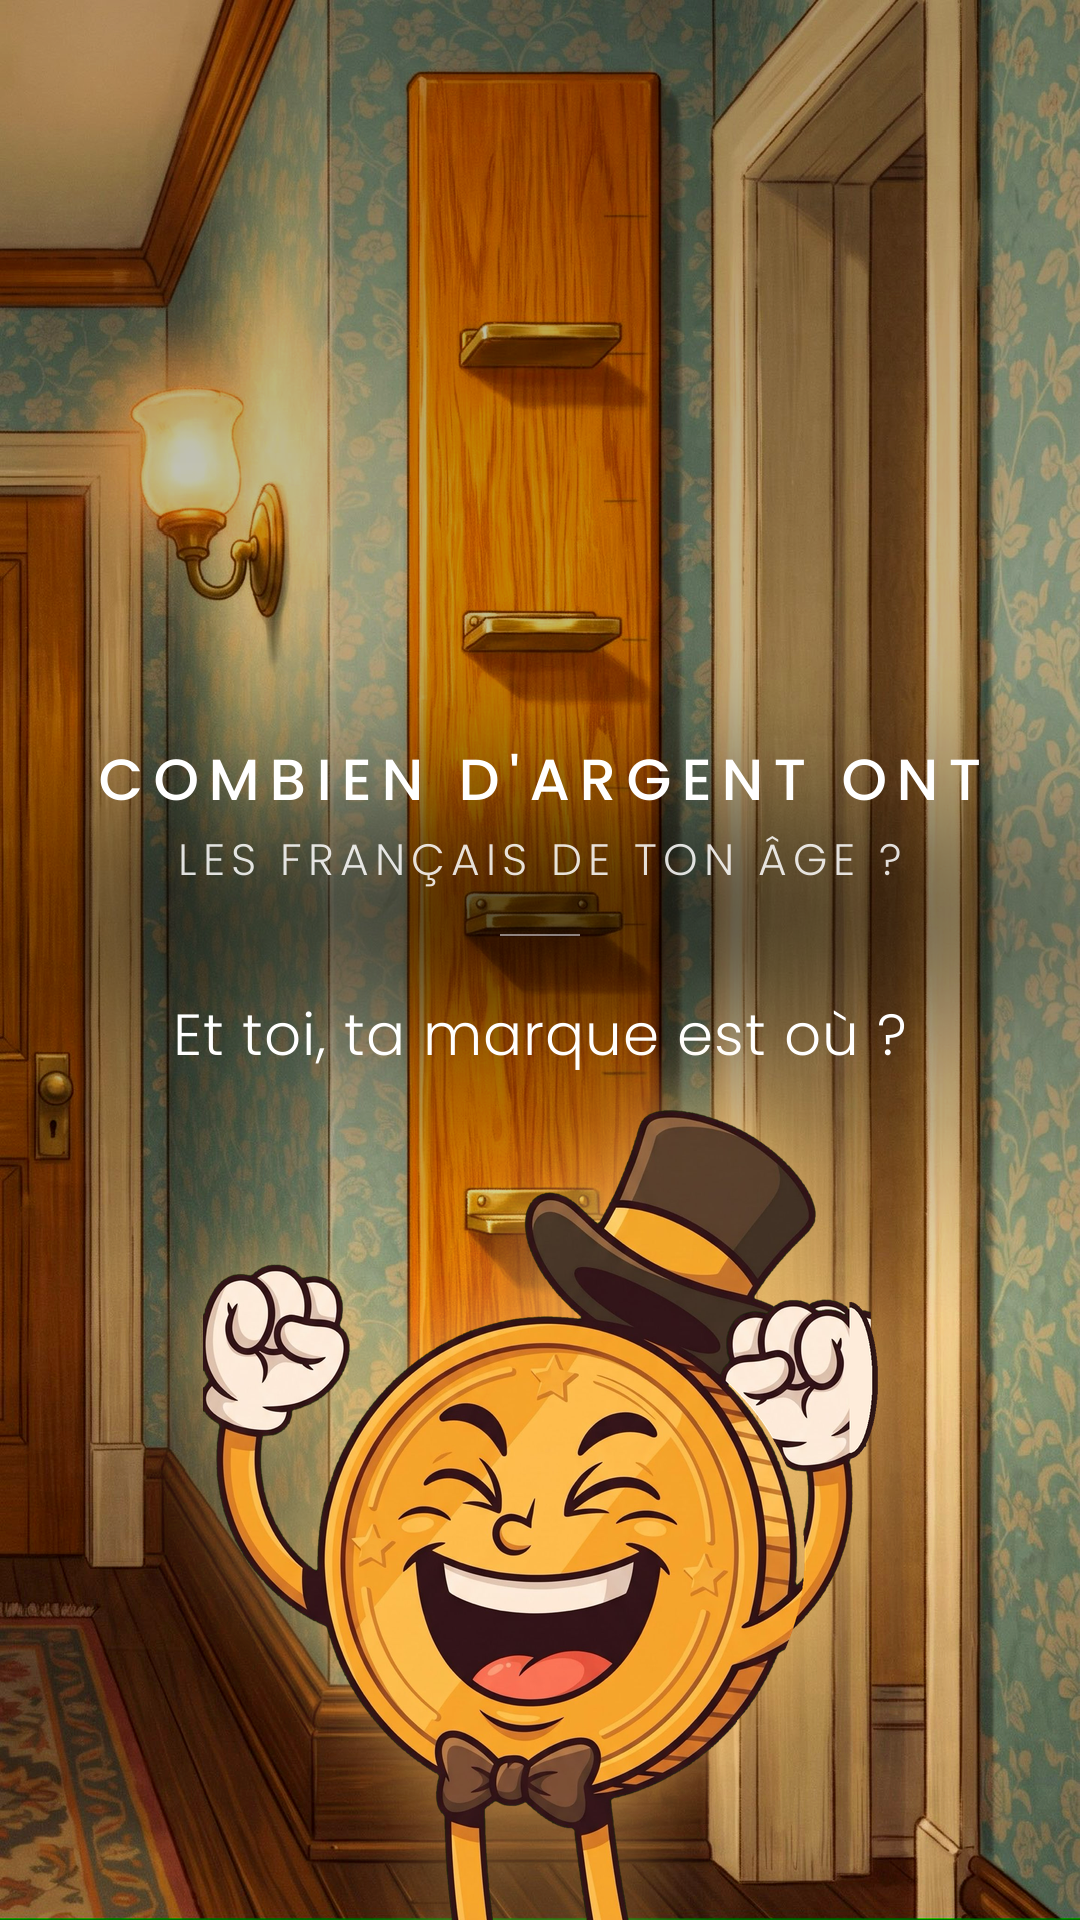
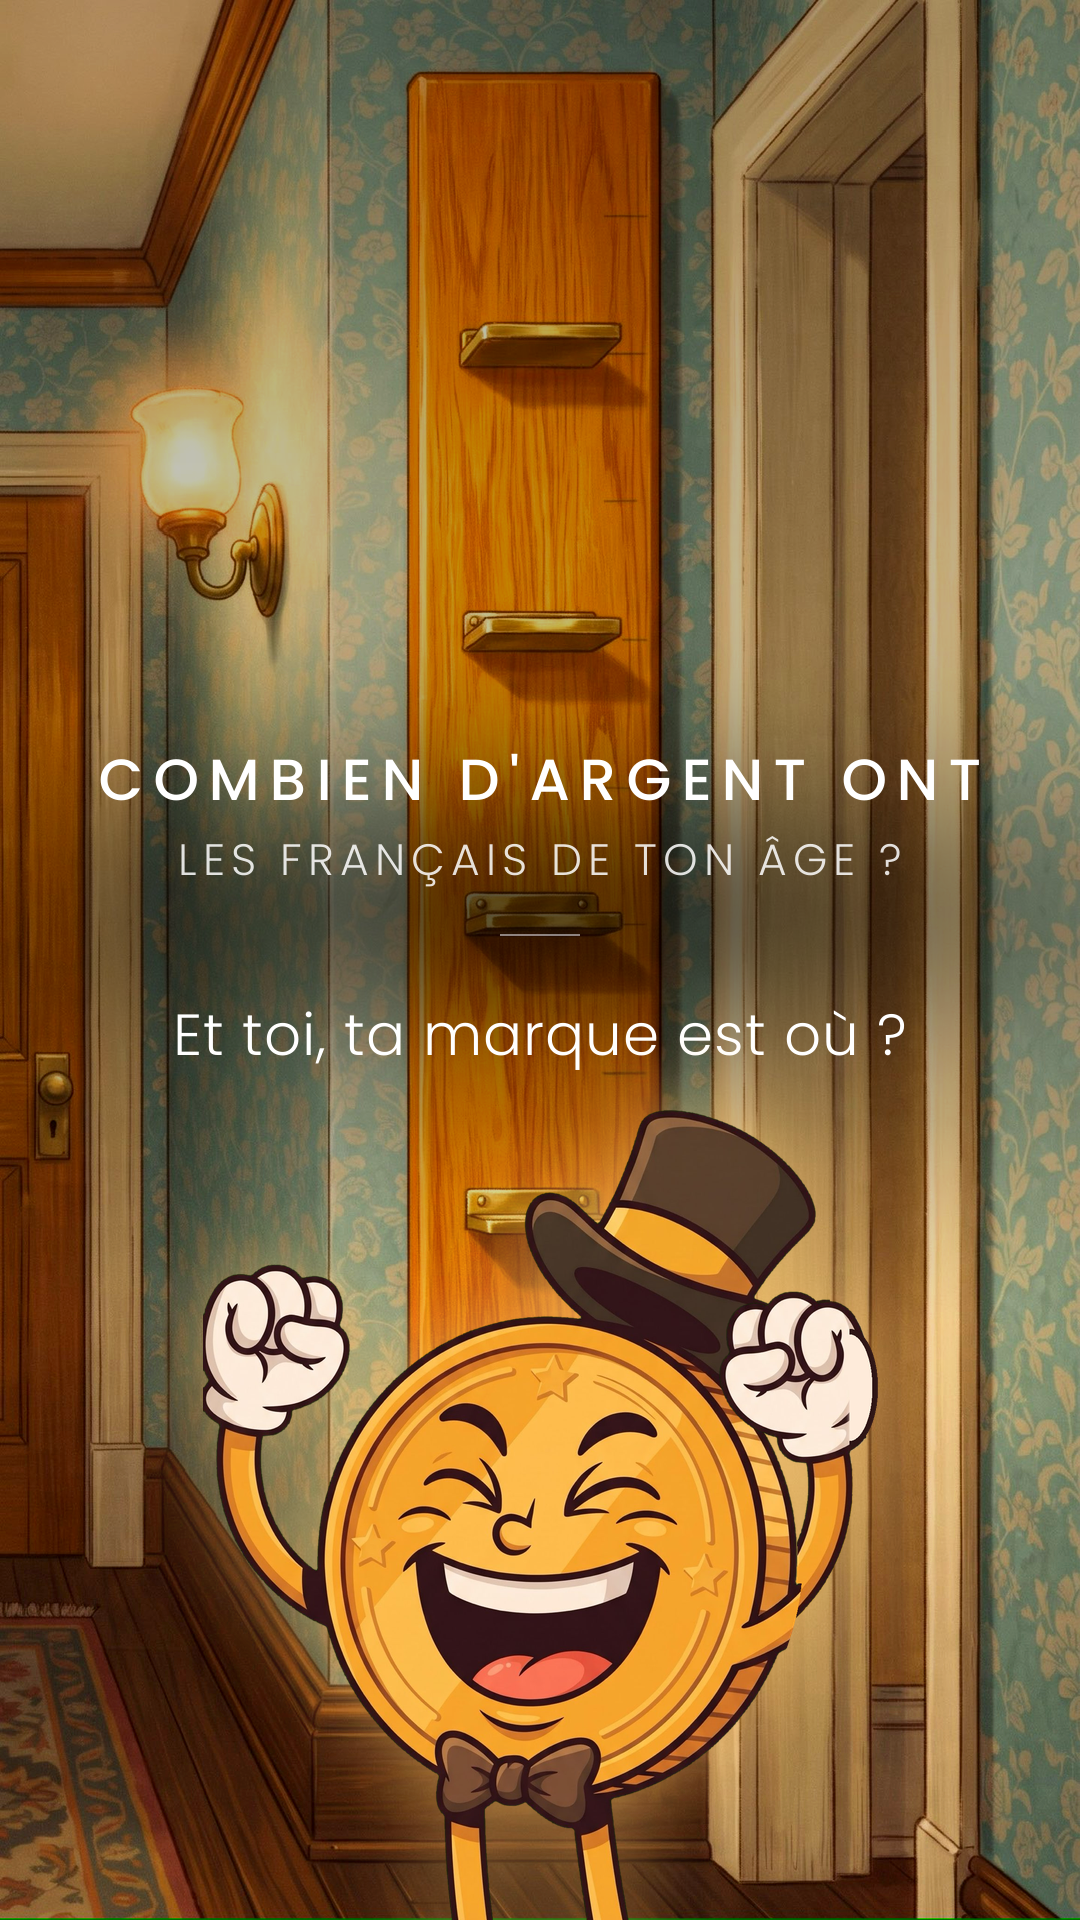
Pose victoire : bras droit reconstruit derrière la tranche de la pièce, ancien bras coupé effacé, poing refermé
Claude-Session: https://claude.ai/code/session_01WbC6ARmSW3USkrYLG1bBYg

Changed region(s): [[0.6722, 0.6562, 0.825, 0.8438]]

diff --git a/mister_coin/gros_plans/reparer_victoire.py b/mister_coin/gros_plans/reparer_victoire.py
@@ -4,7 +4,7 @@ sur une toile élargie de PAD px à droite."""
 from PIL import Image; import numpy as np, cv2, sys
 import os; SRC=os.path.join(os.path.dirname(os.path.abspath(__file__)), 'couv_victoire_origine.png')   # pose d'origine, coupée au bord
 g=np.asarray(Image.open(SRC)).astype(np.float32); H,W=g.shape[:2]; a=g[...,3]
-DX=int(sys.argv[1]) if len(sys.argv)>1 else 0; DY=int(sys.argv[2]) if len(sys.argv)>2 else 76
+DX=int(sys.argv[1]) if len(sys.argv)>1 else -10; DY=int(sys.argv[2]) if len(sys.argv)>2 else 58
 PAD=220
 # poing + bras gauches : composante jusqu'à 1800, puis bras seul (colonnes 0-170) jusqu'en bas
 m=np.zeros((H,W),bool)
@@ -17,25 +17,42 @@ out=np.zeros((H,W+PAD,4),np.float32); out[:,:W]=g
 M=np.float32([[1,0,DX],[0,1,DY]])
 P=cv2.warpAffine(patch,M,(W+PAD,H),flags=cv2.INTER_LINEAR)
 # caché derrière la pièce (ellipse) et derrière le chapeau (on garde l'original là où il est opaque et brun foncé ? non : poing devant le chapeau dans l'original)
-yy,xx=np.mgrid[0:H,0:W+PAD]; coin=((xx-775)/520.)**2+((yy-1792)/510.)**2<1
-pa=P[...,3]/255*(~coin)
-# effacer l'ancien poing/bras droit coupé hors pièce et hors chapeau : pixels de l'original à droite de 1150, lignes 1230-2300, non bruns (chapeau)
-o=out[...,:3]; br=(o[...,0]<120)&(o[...,1]<90)&(o[...,2]<80)&(o[...,0]>40)   # brun du chapeau
-old=np.zeros((H,W+PAD),bool); old[1230:2300,1150:W]=True; old&=~coin
-hat=np.zeros((H,W+PAD),bool); hat[:1330,:]=True                              # le chapeau est au-dessus de 1330
-old&=~hat
+# silhouette exacte de la pièce (tranche striée comprise) : sur chaque ligne, du centre de la pièce vers la droite, jusqu'au premier
+# pixel transparent (un espace sépare toujours le bras de la pièce dans l'original)
+a0_=out[...,3]>20; droite=np.full(H, -1)
+for r in range(1290, 2330):
+    row=a0_[r, 775:]; z=np.nonzero(~row)[0]; droite[r]=775+(z[0] if len(z) else row.size)-1
+rr_=np.arange(1290,2330); dd=droite[1290:2330].astype(float)
+ok=dd<np.percentile(dd,60)+40                                   # rangées où le balayage n'a pas filé dans le bras
+A_=np.c_[rr_[ok]**2, rr_[ok], np.ones(ok.sum())]; cf=np.linalg.lstsq(A_, (dd[ok]-775)**2, rcond=None)[0]
+fit=775+np.sqrt(np.clip(A_.dot(cf) if False else np.c_[rr_**2, rr_, np.ones(rr_.size)].dot(cf), 0, None))
+droite[1290:2330]=np.minimum(dd, fit+8).astype(int)
+coin=np.zeros((H,W+PAD),bool)
+for r in range(1290, 2330): coin[r, :droite[r]+1]=True
+# effacer l'ancien poing et bras droits coupés : tout ce qui est à droite de la pièce, sous le chapeau
+old=a0_&~coin; old[:1330]=False; old[:, :1150]=False
+old[1230:1330, 1350:]=a0_[1230:1330, 1350:]                     # haut de l'ancien poing, à droite du bord du chapeau
 out[...,3]=np.where(old,0,out[...,3])
-al=pa[...,None]; out[...,:3]=out[...,:3]*(1-al)+P[...,:3]*al; out[...,3]=np.maximum(out[...,3],P[...,3]*(~coin))
+# le poing passe devant (comme dans l'original, devant le bord du chapeau) ; le bras, sous le poignet, passe DERRIÈRE la pièce :
+# il est masqué par tout ce qui est opaque dans l'original (tranche striée comprise), pour rejoindre la pièce par son contour
+POIGNET=1560+DY
+derriere=np.zeros((H,W+PAD),bool); derriere[POIGNET:]=True
+pa=P[...,3]/255
+pa=np.where(derriere, pa*(~coin), pa)
+al=pa[...,None]; a0=out[...,3:4]/255
+out[...,:3]=out[...,:3]*(1-al)+P[...,:3]*al
+out[...,3]=np.maximum(out[...,3], pa*255)
 # le poing gauche touchait le bord gauche (contour extérieur coupé net) : on referme le côté coupé par une demi-ellipse
 # remplie de blanc de gant et cerclée du même contour brun foncé
 edge=W-1+DX
-col_=out[1150+DY:1560+DY, edge-4, 3]>20; rr=np.nonzero(col_)[0]+1150+DY; ra, rb=rr.min(), rr.max()
-cy=(ra+rb)/2+2; hy=(rb-ra)/2+8; bul=50; th=12; X0=edge-36
+col_=P[1150+DY:1560+DY, edge-4, 3]>20; rr=np.nonzero(col_)[0]+1150+DY; ra, rb=rr.min(), rr.max()
+cy=(ra+rb)/2; hy=(rb-ra)/2+2; bul=50; th=12; X0=edge-36
 yy2,xx2=np.mgrid[0:H,0:W+PAD].astype(np.float32)
 inside=(((xx2-X0)/bul)**2+((yy2-cy)/hy)**2<1)&(xx2>X0)
 ring=(((xx2-X0)/(bul+th))**2+((yy2-cy)/(hy+th))**2<1)&(xx2>X0)&~inside
 zone=out[ra:rb, X0-60:X0, :3].reshape(-1,3); lum=zone.sum(1); GLOVE=np.median(zone[lum>np.percentile(lum,70)],0); OUT=np.array([46,22,22],np.float32)
-out[inside,:3]=GLOVE; out[inside,3]=255
+fi=cv2.GaussianBlur(inside.astype(np.float32),(0,0),4)*(xx2>X0-12); fi=np.maximum(fi, inside)   # raccord fondu au début du remplissage
+out[...,:3]=out[...,:3]*(1-fi[...,None])+GLOVE*fi[...,None]; out[...,3]=np.maximum(out[...,3], inside*255.)
 out[ring,:3]=OUT; out[ring,3]=255
 
 Image.fromarray(np.clip(out,0,255).astype(np.uint8)).save(os.path.join(os.path.dirname(SRC), 'couv_victoire.png'))
